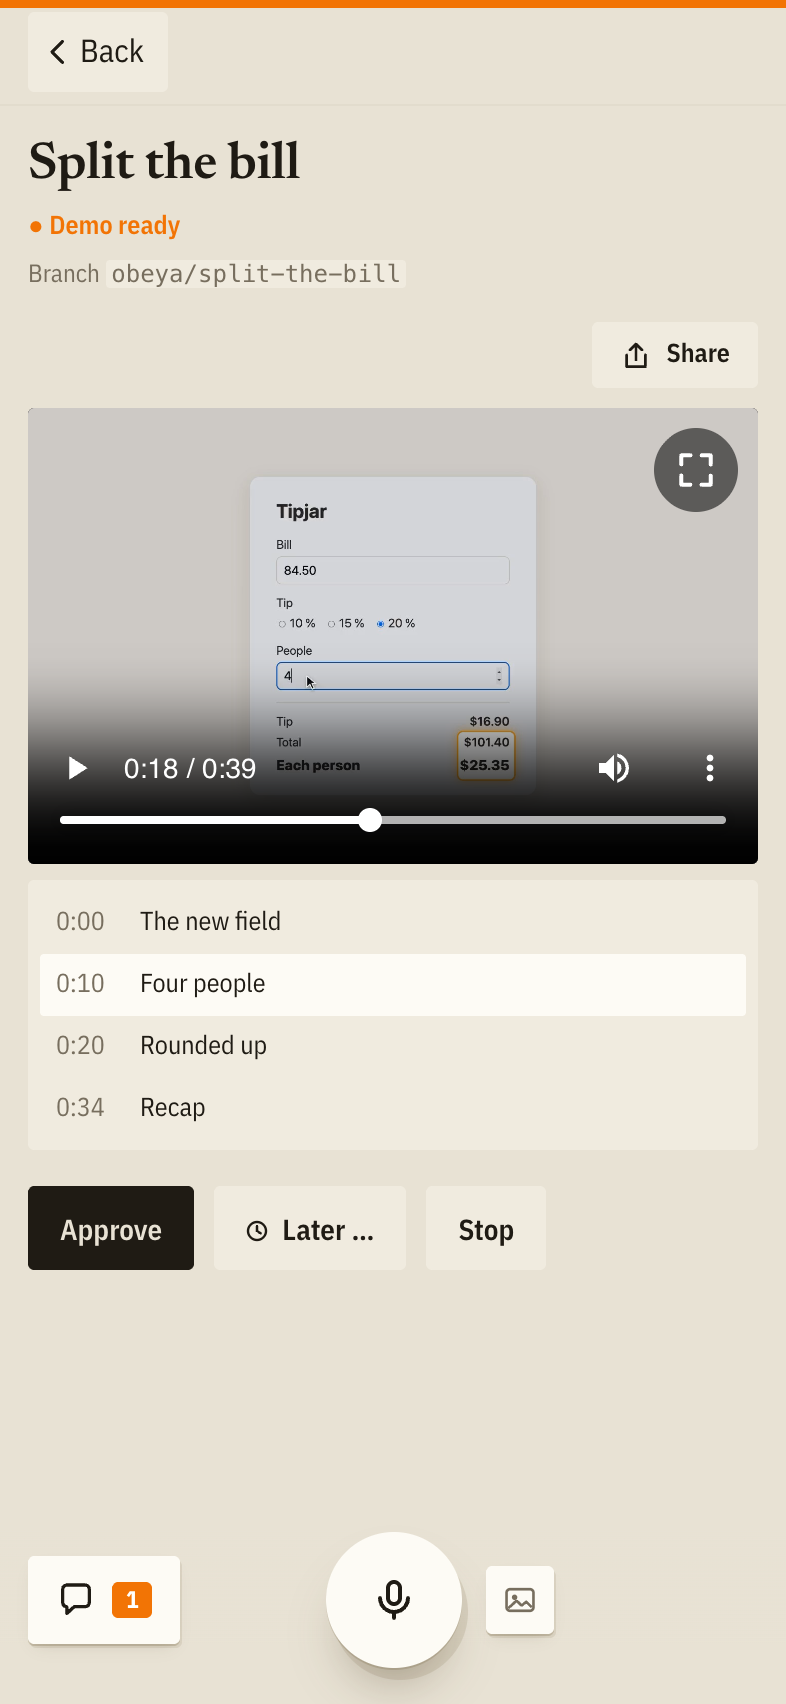
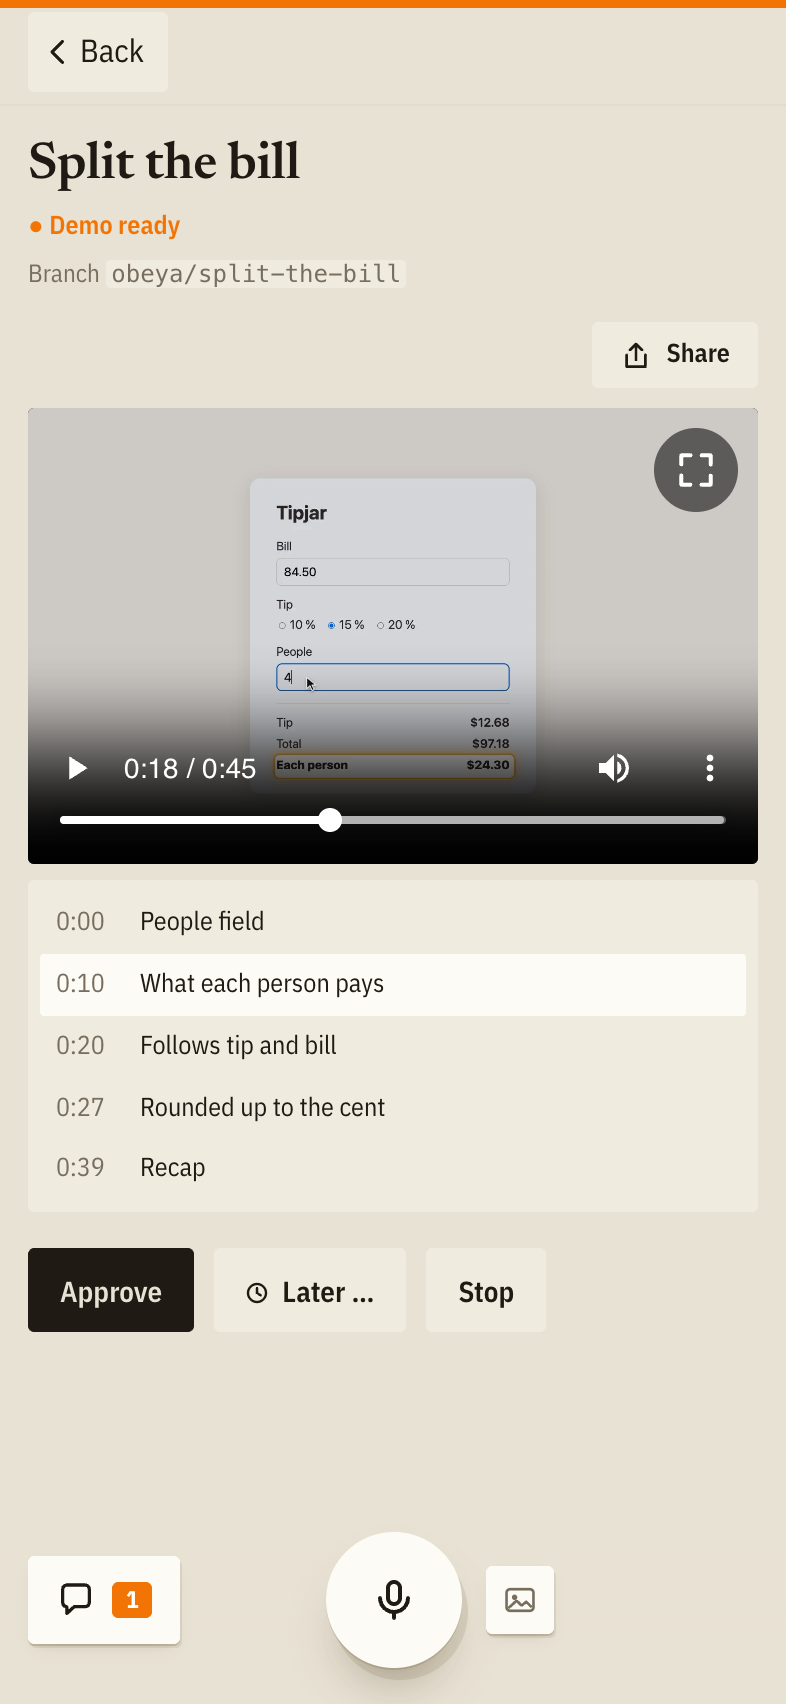
Obeya 0.7.0
The version goes to 0.7.0, with the site's screenshots, the hero video's poster and the README
taken again from it. The README names pull requests on Forgejo and Gitea, the merge a team keeps
to itself, the files an agent hands over beside its conversation, and the project agent.

The hero video's lasso marked the cards and waited for a colour ring that no longer opens by
itself; it now clicks "Group …" over the marked cards and lets go of them before the next drag.
Its wall was cramped: App icon was dragged onto the proposal of Look and feel, Launch's territory
ran off the left edge and pressed against the project's, and the idea sat under the microphone.
The groups now stand side by side, the camera steps back a little before the take, and App icon
goes below Look and feel. The demo and the report are ringed one after the other, each long enough
to see, and the pan to a card parks the pointer beside it, so the card's waits no longer show as
arrows for the whole pan. In the big room, the phone view of the same wall shows in a phone's
frame over the dimmed canvas, with the idea opened on it.

site-shots.ts took the canvas while the Koordinator was still reading the project's plan doc, with
"Arranging …" in its head; it now waits for that reading first.

Tipjar's README says that a new row of the result looks like the others: the agent's first demo showed "Each person" in bold already in one render, which left nothing for the spoken comment to ask.
[…]

diff --git a/scripts/hero-video/demo.ts b/scripts/hero-video/demo.ts
@@ -108,7 +108,9 @@ async function bringIntoView(d: Director, target: Locator) {
   const dx = box.x + box.width / 2 - view.width / 2;
   const dy = box.y + box.height / 2 - (view.height - 120) / 2;
   if (Math.hypot(dx, dy) < 80) return;
-  await pointer(d, view.width / 2, view.height / 2 - 60);
+  // off to the side: in the middle it ended on the target, whose waits then showed as arrows for the
+  // whole pan
+  await pointer(d, view.width - 120, view.height - 200);
   const steps = 30;
   for (let i = 0; i < steps; i++) {
     await d.page.mouse.wheel(dx / steps, dy / steps);
@@ -176,7 +178,7 @@ async function pointer(d: Director, x: number, y: number) {
   await d.page.evaluate(([px, py]) => (window as unknown as { __demo: { moveTo: (x: number, y: number, i: boolean) => void } }).__demo.moveTo(px!, py!, true), [x, y]);
 }
 
-/** Shift + drag in a loop round `cards`: the lasso that opens the colour ring at its end. */
+/** Shift + drag in a loop round `cards`: the lasso that marks them. */
 async function lasso(d: Director, cards: Locator[]) {
   const boxes = await Promise.all(cards.map(async (c) => (await c.boundingBox())!));
   const x0 = Math.min(...boxes.map((b) => b.x));
@@ -190,18 +192,18 @@ async function lasso(d: Director, cards: Locator[]) {
   // from the left, clockwise round, ending a little past the start so the loop closes
   const at = (a: number) => [cx - rx * Math.cos(a), cy - ry * Math.sin(a)] as const;
   await d.page.evaluate(([x, y]) => (window as unknown as { __demo: { moveTo: (x: number, y: number) => void } }).__demo.moveTo(x!, y!), at(0));
-  await d.wait(750);
+  await d.wait(400);
   await d.page.mouse.move(...at(0));
   await d.page.keyboard.down('Shift');
   await d.page.mouse.down();
-  const steps = 45;
+  const steps = 36;
   for (let i = 1; i <= steps; i++) {
     await pointer(d, ...at((i / steps) * Math.PI * 2.08));
-    await d.wait(15);
+    await d.wait(10);
   }
   await d.page.mouse.up();
   await d.page.keyboard.up('Shift');
-  await d.wait(500);
+  await d.wait(250);
 }
 
 /** Zooms by `steps` turns of the wheel with Ctrl at (x, y): out for positive steps, in for negative. */
@@ -254,6 +256,37 @@ async function pasteShot(d: Director) {
   }, png);
 }
 
+/**
+ * The phone view of the same canvas (`?view=phone`) at an iPhone's size, in a phone's frame over the
+ * dimmed wall: laid in hidden and loaded, so that `.on` fades it in at once.
+ */
+async function phone(d: Director) {
+  // notifications on, as on a paired phone: the view does not ask for them
+  await d.page.context().grantPermissions(['notifications'], { origin: base });
+  await d.page.evaluate((src) => {
+    const style = document.createElement('style');
+    style.textContent = `
+      #hero-phone { position: fixed; inset: 0; z-index: 100000; display: grid; place-items: center; opacity: 0; pointer-events: none;
+        background: rgba(40, 34, 28, 0.32); backdrop-filter: blur(3px) grayscale(0.4); transition: opacity 0.6s ease; }
+      #hero-phone.on { opacity: 1; pointer-events: auto; }
+      #hero-phone .frame { box-sizing: content-box; width: 393px; height: 852px; padding: 12px; border-radius: 64px; background: #111;
+        box-shadow: 0 0 0 2px #3a3a3c, 0 30px 80px rgba(0, 0, 0, 0.45); transform: scale(0.9); }
+      #hero-phone .screen { display: flex; flex-direction: column; height: 100%; border-radius: 52px; overflow: hidden; background: #ece5d8; }
+      #hero-phone .status { flex: none; height: 54px; display: flex; align-items: center; justify-content: space-between; padding: 0 34px 0 46px;
+        font: 600 16px/1 -apple-system, system-ui, sans-serif; color: #1d1b18; }
+      #hero-phone .island { width: 122px; height: 36px; border-radius: 18px; background: #000; }
+      #hero-phone .bars { display: flex; gap: 5px; align-items: center; }
+      #hero-phone .bars i { display: block; width: 26px; height: 12px; border: 1.5px solid #1d1b18; border-radius: 4px; position: relative; }
+      #hero-phone .bars i::after { content: ''; position: absolute; inset: 1.5px; right: 5px; background: #1d1b18; border-radius: 1.5px; }
+      #hero-phone iframe { flex: 1; display: block; width: 100%; border: 0; }`;
+    const veil = document.createElement('div');
+    veil.id = 'hero-phone';
+    veil.innerHTML = `<div class="frame"><div class="screen"><div class="status"><span>9:41</span><span class="island"></span><span class="bars"><i></i></span></div><iframe src="${src}"></iframe></div></div>`;
+    document.body.append(style, veil);
+  }, '/?c=tipjar&view=phone');
+  await d.page.frameLocator('#hero-phone iframe').locator('.ph-card', { hasText: 'Settle up after a trip' }).waitFor({ timeout: 30_000 });
+}
+
 const scenes: Scene[] = [
   {
     title: 'One canvas',
@@ -282,14 +315,22 @@ const scenes: Scene[] = [
     run: async (d) => {
       const say = narration.arrange;
       await saying(d, say, 'Draw a lasso');
+      // the lasso marks the cards; the button over them opens the colour ring
       await lasso(d, [card(d, 'Dark mode'), card(d, 'Remember the last tip')]);
+      await d.click(d.page.locator('#marked .mgroup'));
       await d.click(d.page.locator('.ball.new'));
-      await d.page.locator('.rname').pressSequentially('Look and feel', { delay: 60 });
-      await d.wait(300);
+      await d.page.locator('.rname').pressSequentially('Look and feel', { delay: 40 });
+      await d.wait(200);
       await d.page.locator('.rname').press('Enter');
-      // App icon, of the group Launch, goes up beside Look and feel, whose territory makes way
+      await d.wait(200);
+      // grouped: the marks let go, so the card dragged next moves alone
+      await d.page.keyboard.press('Escape');
+      // App icon, of the group Launch, goes beside Look and feel, below its proposal, whose
+      // territory makes way
       await saying(d, say, 'Drag cards');
-      await d.drag(card(d, 'App icon'), { x: 1215, y: 628 }, 2000);
+      const below = (await card(d, 'Remember the last tip').boundingBox())!;
+      const icon = (await card(d, 'App icon').boundingBox())!;
+      await d.drag(card(d, 'App icon'), { x: below.x + below.width / 2, y: below.y + below.height + 70 + icon.height / 2 }, 1500);
       await d.untilSpoken(1);
     },
   },
@@ -444,11 +485,16 @@ const scenes: Scene[] = [
       await d.wait(1200);
       const play = d.page.locator('.player button.start');
       if (await play.isVisible()) await d.click(play);
-      await saying(d, narration.demo, 'and a short report');
-      await d.highlight(d.page.locator('.talk.conv').first(), 'report');
-      await saying(d, narration.demo, 'You judge');
+      // the card opens about when the narration names the demo: each ring stands at least two
+      // seconds, else the demo's went by in a blink
+      await saying(d, narration.demo, 'a narrated demo');
+      await d.highlight(d.page.locator('.player').first(), 'narrated demo');
+      await Promise.all([saying(d, narration.demo, 'and a short report'), d.wait(2000)]);
       await d.clearHighlights();
+      await d.highlight(d.page.locator('.talk.conv').first(), 'report');
       await d.untilSpoken(1);
+      await d.wait(600);
+      await d.clearHighlights();
     },
   },
   {
@@ -573,10 +619,19 @@ const scenes: Scene[] = [
     title: 'The big room',
     say: narration.room,
     run: async (d) => {
+      const say = narration.room;
       await d.page.keyboard.press('Escape');
       await d.wait(900);
       // a step back from the wall, where the groups' names show
       await zoom(d, 720, 450, 8);
+      await phone(d);
+      await saying(d, say, 'And it comes with you');
+      await d.page.evaluate(() => document.querySelector('#hero-phone')!.classList.add('on'));
+      // what waits for the owner, and one of it opened on the phone, with its decisions
+      await saying(d, say, 'You watch the demo');
+      await d.click(d.page.frameLocator('#hero-phone iframe').locator('.ph-card', { hasText: 'Settle up after a trip' }));
+      await saying(d, say, 'Of course');
+      await d.page.evaluate(() => document.querySelector('#hero-phone')!.classList.remove('on'));
       await d.untilSpoken(1);
     },
   },
@@ -632,12 +687,29 @@ await runDemo(
       const snap = (await (await fetch(`${base}/api/c/tipjar/canvas`, { headers: owner() })).json()) as { preferences: { id: number; state: string }[] };
       const proposed = snap.preferences.filter((p) => p.state === 'proposed').map((p) => p.id);
       await d.page.addInitScript((ids) => localStorage.setItem('obeya-ksheet-tipjar', JSON.stringify({ proposalsClosed: ids })), proposed);
-      // an owner who knows double-click and `?`: the bar's New task and ? buttons have gone (`help.tsx`)
+      // an owner who knows double-click, `?` and moving marked cards: the bar's New task and ? buttons
+      // have gone (`help.tsx`), and no hint stands beside the cards the lasso marks
       await d.page.addInitScript(() => {
         localStorage.setItem('obeya-double-click-known', '1');
         localStorage.setItem('obeya-help-key-known', '1');
+        localStorage.setItem('obeya-move-marked-known', '1');
       });
       await d.goto('/?c=tipjar');
+      await d.page.addStyleTag({ content: 'bun-hmr { display: none !important; }' });
+      for (const name of Object.keys(clips)) await d.page.evaluate((n) => (window as unknown as Mic).__load(n, `/__demo/${n}.wav`), name);
+      await card(d, 'App icon').waitFor();
+      // a step back from the wall, with the room the groups' territories take, once the Koordinator
+      // has arranged the project: the camera as saved, zoomed around the middle and a little up, so
+      // that the idea at the bottom stays clear of the microphone, and the page again
+      await d.page.getByText('Arranging …').waitFor({ state: 'detached', timeout: 120_000 });
+      await d.wait(600);
+      await d.page.evaluate(() => {
+        const k = 0.86;
+        const [cx, cy] = [innerWidth / 2, innerHeight / 2 + 30];
+        const c = JSON.parse(localStorage.getItem('obeya-cam-tipjar') ?? 'null') as { s: number; x: number; y: number } | null;
+        if (c) localStorage.setItem('obeya-cam-tipjar', JSON.stringify({ s: c.s * k, x: cx - (cx - c.x) * k, y: cy - (cy - c.y) * k - 25 }));
+      });
+      await d.page.reload();
       await d.page.addStyleTag({ content: 'bun-hmr { display: none !important; }' });
       for (const name of Object.keys(clips)) await d.page.evaluate((n) => (window as unknown as Mic).__load(n, `/__demo/${n}.wav`), name);
       await card(d, 'App icon').waitFor();

diff --git a/scripts/hero-video/stage.ts b/scripts/hero-video/stage.ts
@@ -28,7 +28,7 @@ export function writeStage(file: string) {
     plans,
     cards: [
       { key: 'P', project: 'docs/plan/tipjar-2.md', x: 60, y: 120 },
-      { key: 'D', title: 'Dark mode', body: 'Tipjar follows the system’s dark mode.', state: 'live', x: 960, y: 100, createdAgo: '1d' },
+      { key: 'D', title: 'Dark mode', body: 'Tipjar follows the system’s dark mode.', state: 'live', x: 1030, y: 110, createdAgo: '1d' },
       // hangs off Dark mode with a dashed line, where Obeya puts a proposal: right below the card it came from
       {
         key: 'Q',
@@ -47,19 +47,19 @@ export function writeStage(file: string) {
         // archived until the video brings it back while the approved card lands (`unarchive`), so the
         // opening shows the wall without it
         archivedAgo: '1m',
-        x: 1340,
+        x: 1460,
         y: 330,
         row: { retro: 'On three cards the agent first searched for how to serve the app before it recorded its demo.' },
       },
       // working without an agent: no workspace, so a scratch Obeya with real workers leaves it be
-      { key: 'C', title: 'Run the tests on every push', body: 'A GitHub Actions workflow runs bun test on every push and pull request.', state: 'working', statusLine: 'Writing the workflow', scope: ['.github/workflows/test.yml'], x: -40, y: 520 },
-      { key: 'I', title: 'App icon', body: 'An icon for the home screen.', state: 'waiting', need: 'question', question: { text: 'Which of the three drafts should become the icon?', options: ['The jar', 'The coin', 'The receipt'] }, scope: ['icon.svg'], x: 280, y: 560 },
+      { key: 'C', title: 'Run the tests on every push', body: 'A GitHub Actions workflow runs bun test on every push and pull request.', state: 'working', statusLine: 'Writing the workflow', scope: ['.github/workflows/test.yml'], x: 610, y: 110 },
+      { key: 'I', title: 'App icon', body: 'An icon for the home screen.', state: 'waiting', need: 'question', question: { text: 'Which of the three drafts should become the icon?', options: ['The jar', 'The coin', 'The receipt'] }, scope: ['icon.svg'], x: 610, y: 290 },
       {
         key: 'T',
         title: 'Settle up after a trip',
         body: 'Several bills over a weekend, several people: who owes whom at the end.',
         state: 'idea',
-        x: 650,
+        x: 620,
         y: 560,
         // the discussion so far, which the video shows when it opens the idea
         events: [
@@ -92,7 +92,7 @@ export function writeStage(file: string) {
       { text: 'Solve rebase conflicts yourself.' },
       { text: 'Every change to the bill gets a test with cents that do not split evenly.', state: 'proposed', card: 'C', quote: 'Test it with an odd amount, like 100 split three ways.' },
     ],
-    // Launch's App icon is the card the video drags up beside Look and feel, the group it makes with a lasso
+    // Launch's App icon is the card the video drags beside Look and feel, the group it makes with a lasso
     groups: [
       { name: 'Tipjar 2.0', cards: ['P'] },
       { name: 'Launch', cards: ['C', 'I'] },

diff --git a/scripts/site-shots.ts b/scripts/site-shots.ts
@@ -87,6 +87,15 @@ const base = `http://127.0.0.1:${PORT}`;
 await fetch(`${base}/api/language`, { method: 'PUT', headers: ownerHeaders(join(staged.dir, 'home')), body: JSON.stringify({ language: 'en' }) });
 console.log('staged', staged.url);
 
+// the Koordinator reads the new project's plan doc for what builds on what and arranges it: until
+// then its head says "Arranging …", which a shot taken at once showed
+const settled = Date.now() + 3 * 60_000;
+while (Date.now() < settled) {
+  const snap = (await (await fetch(`${base}/api/c/tipjar/canvas`, { headers: ownerHeaders(join(staged.dir, 'home')) })).json()) as { items: { kind: string; arranging?: true }[] };
+  if (!snap.items.some((i) => i.kind === 'project' && i.arranging)) break;
+  await new Promise((r) => setTimeout(r, 1000));
+}
+
 if (process.argv.includes('--stage-only')) process.exit(0);
 
 // a fake microphone, so that holding Space lights it as it does for the owner

diff --git a/README.md b/README.md
@@ -30,8 +30,10 @@ decision and hands over with a demo: a narrated screen recording of the change, 
 at when the result is a layout or variants side by side. You approve it or say what to change, also
 about one moment of the video: what you type or say while it stands there goes to the agent with
 that frame and the narration's sentence. Approved work lands on `main` or goes out as a pull
-request that Obeya carries to the merge; beside the branch the card shows how large the change is,
-and a click shows the diff. "Share" puts a demo on a page of its own on your repository's demo
+request on GitHub, Forgejo or Gitea (Codeberg, say) that Obeya carries to the merge, or up to it
+where your team merges itself; beside the branch the card shows how large the change is, and a
+click shows the diff. A report or another file the agent made for you shows beside its
+conversation. "Share" puts a demo on a page of its own on your repository's demo
 site, for colleagues to watch; the site can also take every approved demo by itself.
 
 You talk to Obeya itself, spoken or typed: it takes your instructions, queues cards whose changes
@@ -40,7 +42,7 @@ thought through on its card with an agent of its own, which keeps a brief of var
 questions and can have throwaway prototypes built; deciding builds it or plans it as a project,
 or splits off the part that is settled as a task while the rest stays open. Larger work is planned
 in plan docs, in the repository or in a folder of your own beside it, which show as projects with
-a card per workstream. Each product you build gets a canvas of its own, over one repository or
+a card per workstream and a project agent to ask about the plan. Each product you build gets a canvas of its own, over one repository or
 several, and one Obeya runs them all.
 
 ![An Obeya canvas: a project with its workstreams, one at work and one in the queue; beside it a demo and a question waiting for you, a task at work, an approved and a live one, and an idea](site/img/canvas.png)

diff --git a/scripts/hero-video/README.md b/scripts/hero-video/README.md
@@ -5,7 +5,8 @@ small tip calculator, the wall arranged (a lasso into a group, a card dragged be
 idea said into the microphone, a bug report typed, pasted and spoken in Obeya's
 sidebar, a real agent building the idea and recording its demo, two comments said into that video and the
 agent's new demo on them, the approval landing it on main,
-proposals from an agent and from Obeya's work retrospective, an idea discussed with its agent.
+proposals from an agent and from Obeya's work retrospective, an idea discussed with its agent, and the
+phone view of the same wall in a phone's frame.
 About four minutes, in English, in the owner's ElevenLabs voice, recorded at twice the pixels
 (2880×1800, as the app looks on a Retina screen) with gentle compression (`sharp` in the spec).
 

diff --git a/scripts/hero-video/tipjar/README.md b/scripts/hero-video/tipjar/README.md
@@ -2,3 +2,6 @@
 
 A tip calculator for the browser: enter the bill, pick a tip, see tip and total. Plain HTML and
 JavaScript, no build; `calc.js` holds the arithmetic, tested with `bun test`.
+
+The result is a list of rows that all look alike, a label and its amount (`.result` in
+`style.css`); a new row takes the same look as the others.
